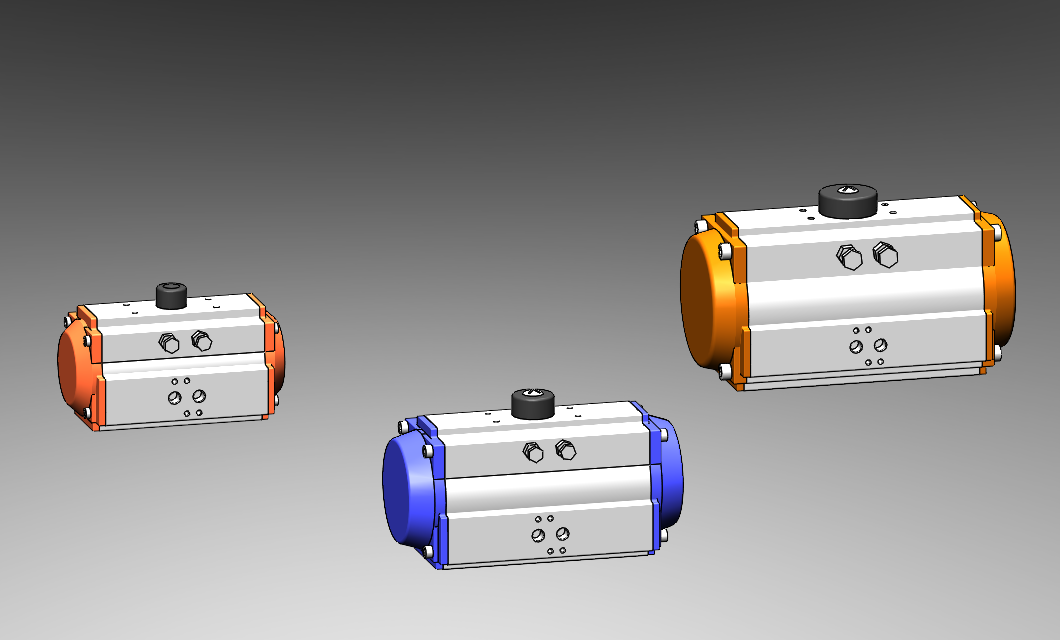
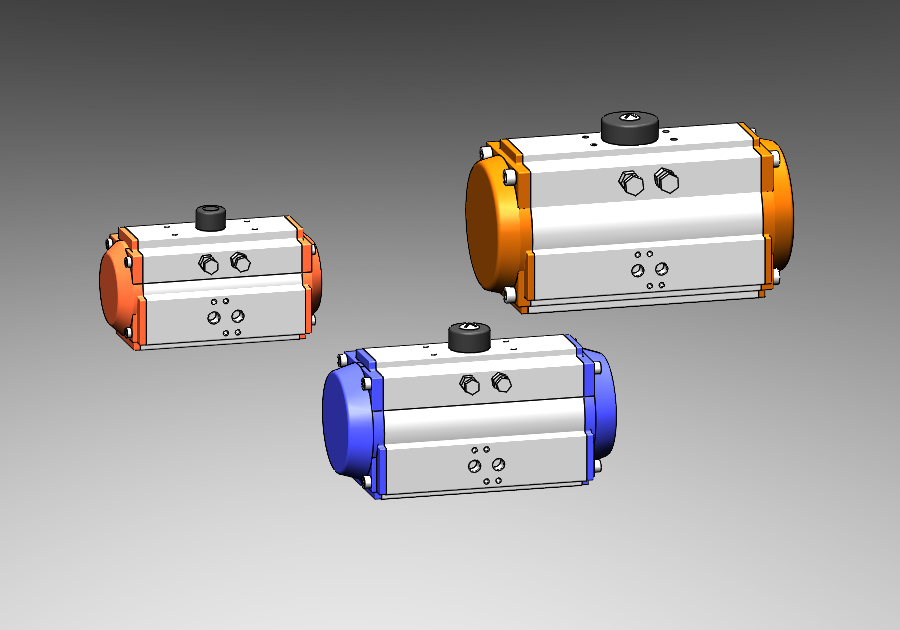
Apply Jon's November 12 website edits

Changed region(s): [[0.3422, 0.181, 0.9644, 0.9048], [0.0311, 0.3016, 0.3733, 0.6937]]

diff --git a/data/company/content.ts b/data/company/content.ts
@@ -39,7 +39,7 @@ export const companyFacts: Record<string, CompanyFact[]> = {
   engineering: [
     { value: 'Sales + Engineering', label: 'Application support' },
     { value: 'Custom', label: 'Valve modifications' },
-    { value: 'Custom', label: 'Actuation packages' },
+    { value: 'Integrated', label: 'Actuation packages' },
     { value: 'Application-specific', label: 'Material recommendations' },
   ],
   manufacturing: [
@@ -209,34 +209,46 @@ const engineeringPage: CompanyPageContent = {
       heading: 'Configuration & Customization',
       eyebrow: 'Configure',
       body:
-        'PDC’s product offering includes multiple seating options, bracket configurations, actuator styles, and engineered modifications. Customized actuation packages can be developed around customer-specific requirements.',
+        'When a standard product configuration does not meet the application requirements, PDC can evaluate custom valve and actuation arrangements.',
       items: [
         'Engineered valve modifications',
-        'Customized actuation packages',
-        'Seating option selection',
-        'Bracket and mounting configurations',
-        'Actuator style selection',
-        'Custom linkage systems where applicable',
+        'Custom actuator mounting',
+        'Brackets, couplings, and linkage systems',
+        'Pneumatic and electric actuator configurations',
+        'Seat and material options',
+        'Solenoids, limit switches, positioners, and other accessories',
+        'Application-specific valve and actuator assemblies',
       ],
       dark: true,
     },
     {
-      heading: 'Technical Documentation & Recommendations',
+      heading: 'Drawings & Technical Support',
       eyebrow: 'Support',
       body:
-        'PDC’s current market content describes engineering support that can include dimensional drawings, installation and maintenance manuals, custom linkage systems, and application-specific material recommendations.',
+        'PDC can provide technical information and documentation to support product selection, approval, installation, and integration.',
       items: [
-        'Dimensional drawings',
+        'Dimensional and certified drawings',
+        'Product data and engineering information',
         'Installation and maintenance manuals',
-        'Application-specific material recommendations',
-        'Custom linkage systems',
+        'Actuator sizing and mounting information',
+        'Material and configuration recommendations',
+        'Review of customer drawings and application requirements',
       ],
     },
     {
       heading: 'Product Technologies Supported',
       eyebrow: 'Portfolio',
       body:
-        'Engineering support spans PDC’s published valve and actuation portfolio, including Damper and Control Valves, butterfly valves, check valves, pneumatic actuators, electric actuators, and electro-hydraulic actuators.',
+        'Technical support is available across PDC’s valve and actuation offerings, including:',
+      items: [
+        'Butterfly damper valves',
+        'Butterfly valves',
+        'Ball and gate valve packages where applicable',
+        'Pneumatic actuators',
+        'Electric actuators',
+        'Scotch yoke actuation',
+        'Custom valve and actuator assemblies',
+      ],
     },
   ],
   featureCards: [

diff --git a/data/products/electric-actuators/pdcs.ts b/data/products/electric-actuators/pdcs.ts
@@ -47,7 +47,7 @@ export const pdcs: ProductContent = {
     },
     {
       title: 'Visual Position Indicator',
-      description: 'Standard.',
+      description: 'Standard visual indication of actuator position.',
     },
     {
       title: 'Adjustable Mechanical Fail-End Buffer',

diff --git a/docs/reports/jon-website-review-2026-11-10-11.md b/docs/reports/jon-website-review-2026-11-10-11.md
@@ -51,9 +51,18 @@ The reviewed `main` branch still contained the approved EconoTrol image and exis
 - Changed the Resources category cards to a 2×2 grid, removed the Certifications card, and removed document counts from all cards.
 - Included the completed mobile bottom-navigation layout from the companion chat, including its refreshed glass treatment and active-tab state.
 
+## Jon's follow-up edits (November 12, 2026)
+
+- Replaced the Pneumatic Actuators family-card render with Jon's supplied PNG, which keeps all three actuator models inside the frame.
+- Changed the Engineering Support fact strip to “Integrated Actuation Packages” and replaced the configuration, technical-support, and supported-technologies sections with Jon's supplied copy and lists.
+- Updated the PDCS Visual Position Indicator description to “Standard visual indication of actuator position.”
+- Confirmed the “10 product lines” wording had already been replaced with “Integrated Actuation Packages” in the previous pass.
+- Created a separate photorealistic Damper & Control Valves lineup concept for review. It is not part of the website or deployment until approved.
+
 ## Verification and deployment
 
 - `npm run build` passed after combining the review revisions, bottom-navigation work, and image-frame adjustment: TypeScript validation completed and all 52 static pages were generated.
+- November 12 follow-up: `npm run build` passed after the content and actuator-family image updates; all 52 static pages were generated.
 - The build reports existing Browserslist data and Tailwind arbitrary-class ambiguity warnings; neither prevented compilation.
 - No separate test suite was run.
 - Live verification of the November 11 production build found that only three Damper and Control Valve series were listed. This corrective merge preserves the November 11 main-branch updates and restores the curated seven-series family list.
